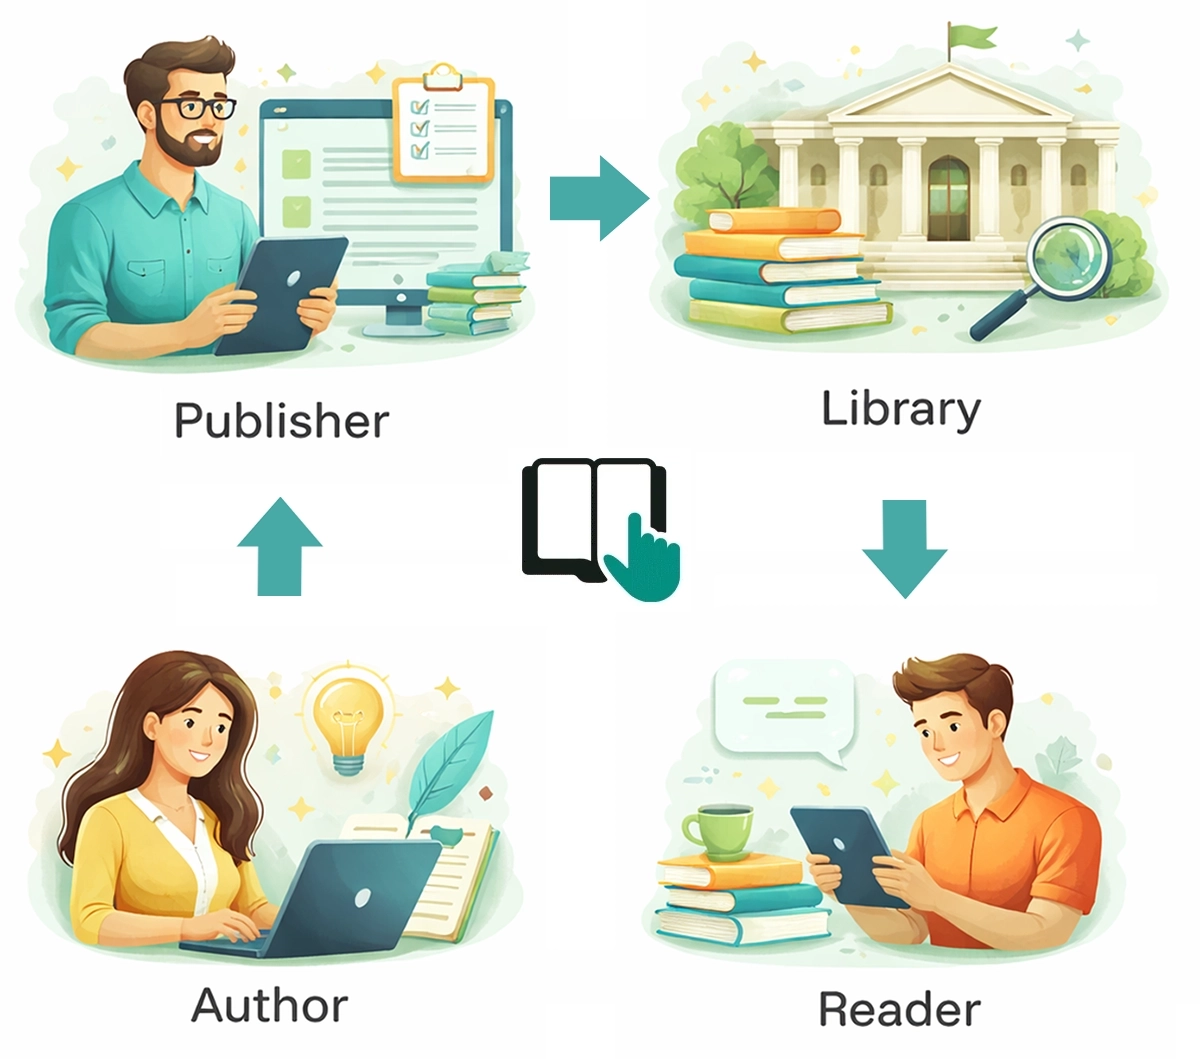
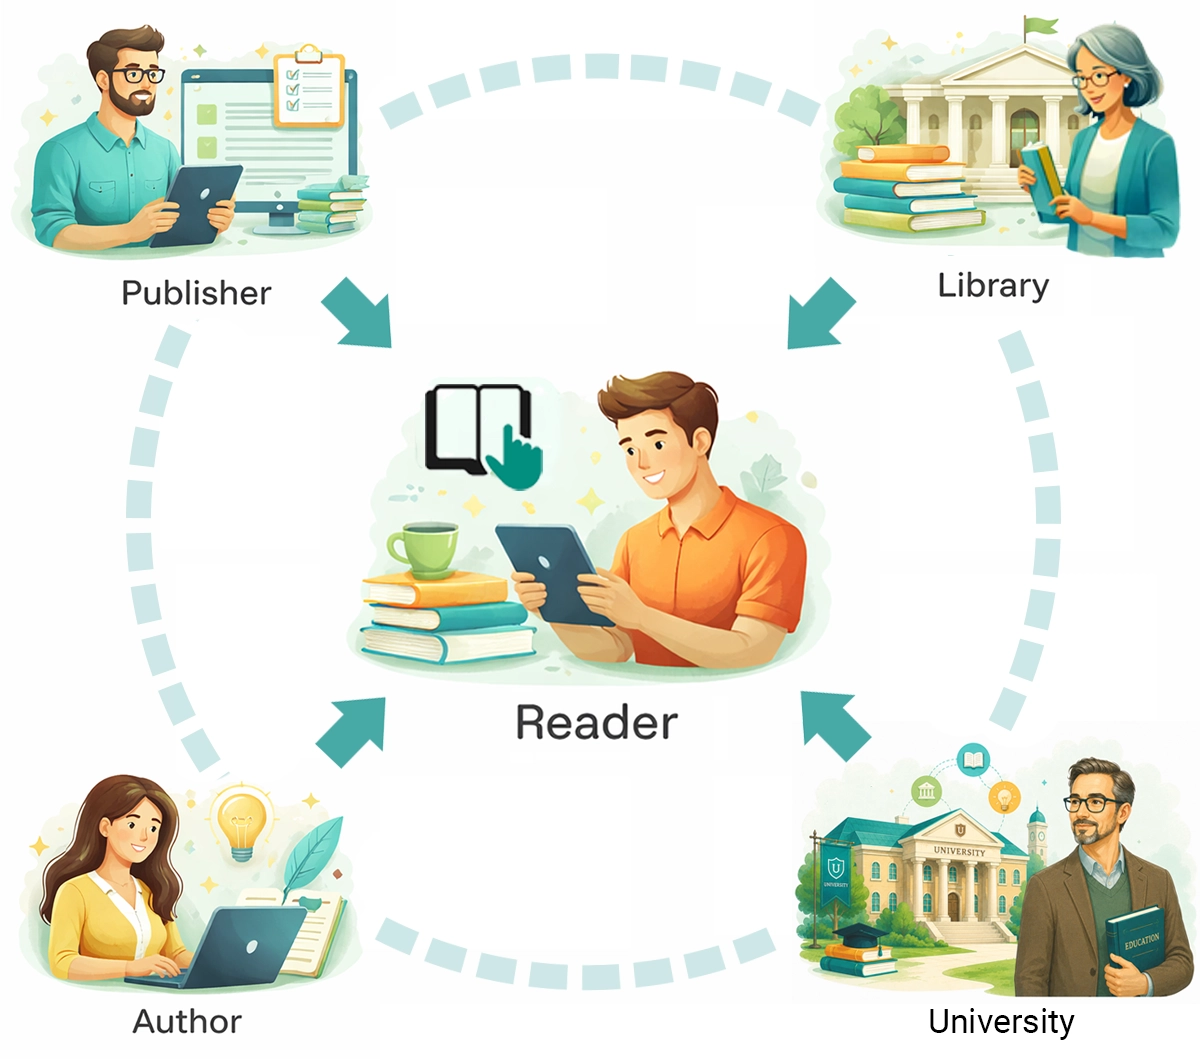
Update ReaderPub site visuals and mobile alignment

diff --git a/src/styles/global.css b/src/styles/global.css
@@ -1631,7 +1631,7 @@ section > :last-child {
 	}
 
 	.page .content .audience-nav-card p {
-		text-align: left;
+		text-align: center !important;
 	}
 
 	.page .content .audience-nav-card-header {